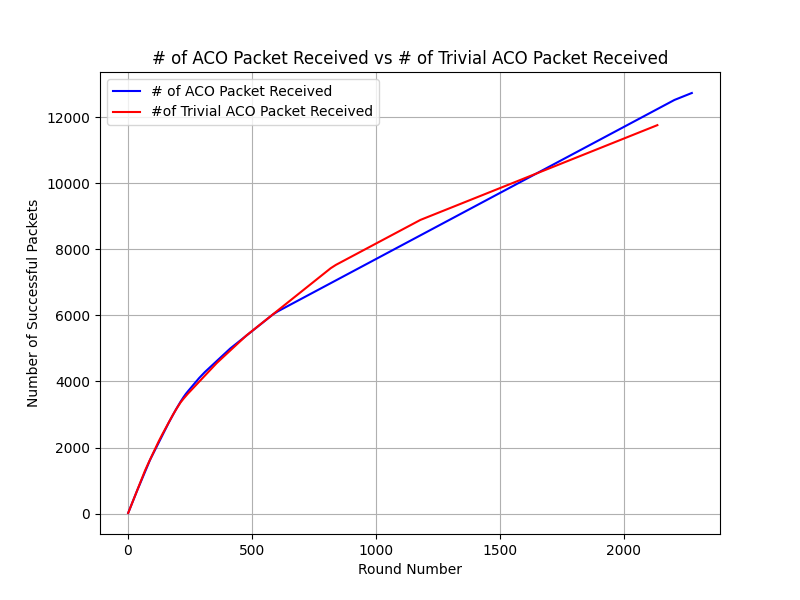
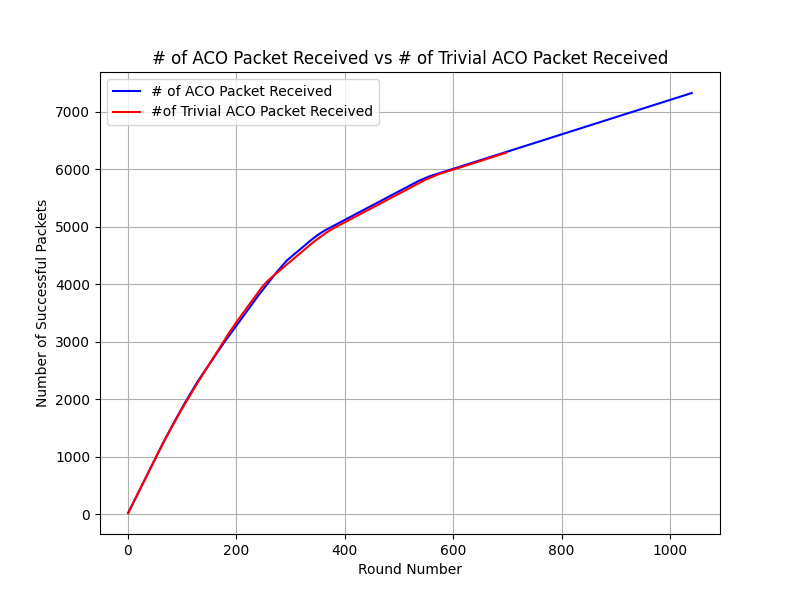
Added a pickle of node so that network remains same

diff --git a/ACO_all_nodes.py b/ACO_all_nodes.py
@@ -4,6 +4,7 @@ import matplotlib.pyplot as plt
 import networkx as nx
 import math
 import copy
+import pickle
 import matplotlib.animation as animation
 
 all_nodes = []
@@ -1241,8 +1242,17 @@ Elec = 50*(10**(-9))
 epsilon = 0.00131*(10**(-12))
 
 
+
+with open('network_structure_nodes_1.pkl', 'rb') as file:
+    nodes = pickle.load(file)
+
 # Generate nodes
-nodes = initialize_nodes(n,side_length, r_min, r_max,energy, num_ants, initial_pheromone)
+# nodes = initialize_nodes(n,side_length, r_min, r_max,energy, num_ants, initial_pheromone)
+
+# with open('network_structure_nodes.pkl', 'wb') as file:
+#     pickle.dump(nodes, file)
+
+
 main_source_node=nodes[0]
 main_sink_node=nodes[1]
 path=[]
